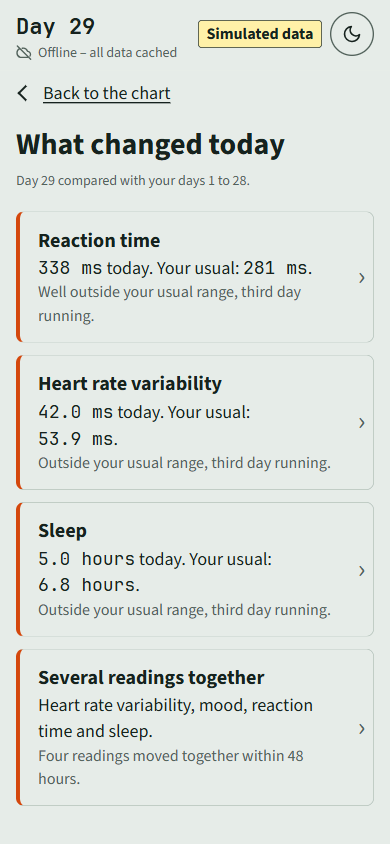
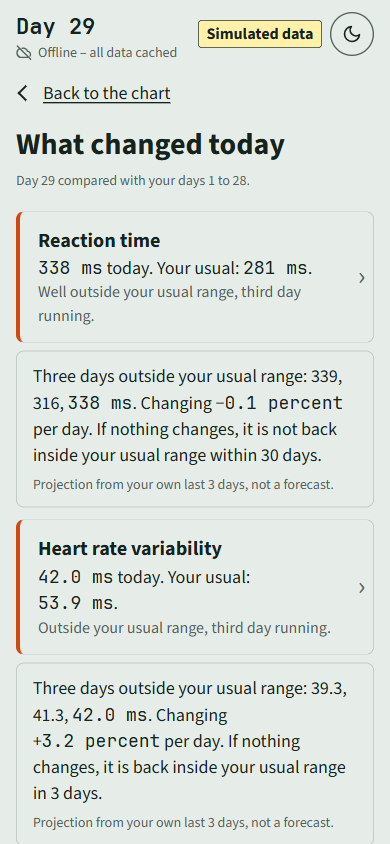
Trend projection card from the last 3 days; mood axis inside 1 to 5

diff --git a/web/app.js b/web/app.js
@@ -10,8 +10,8 @@ const SIGNALS = {
   sleep_hours: { name: "Sleep", phrase: "Your sleep last night", unit: "hours", dp: 1, step: 1, low: "shorter", high: "longer" },
   reaction_ms: { name: "Reaction time", phrase: "Your reaction time today", unit: "ms", dp: 0, step: 50, low: "faster", high: "slower" },
   // step for the four below: the smallest of 0.25, 0.5, 1, 2, 2.5, 5, 10 that gives three ticks on days 29 and 30
-  // of web/data/crew_a_anomaly.json (values plus usual range): 2 to 6, 50 to 70, 96 to 100, 36.5 to 37.0
-  mood_1to5: { name: "Mood", phrase: "Your mood today", unit: "of 5", diffUnit: "points", dp: 1, step: 2, low: "lower", high: "higher" },
+  // of web/data/crew_a_anomaly.json (values plus usual range): 2 to 6 (mood then capped at 5), 50 to 70, 96 to 100, 36.5 to 37.0
+  mood_1to5: { name: "Mood", phrase: "Your mood today", unit: "of 5", diffUnit: "points", dp: 1, step: 2, min: 1, max: 5, low: "lower", high: "higher" }, // axis kept on the 1-to-5 scale
   heart_rate_bpm: { name: "Heart rate", phrase: "Your heart rate today", unit: "beats a minute", dp: 0, step: 10, low: "lower", high: "higher" },
   spo2_pct: { name: "Blood oxygen", phrase: "Your blood oxygen today", unit: "percent", dp: 1, step: 2, low: "lower", high: "higher" },
   core_temp_c: { name: "Core temperature", phrase: "Your core temperature today", unit: "°C", dp: 2, step: 0.25, low: "lower", high: "higher" },
@@ -317,10 +317,10 @@ function drawChannel(signal) {
   const [ink, quiet, scrub, flag] = ["--ink", "--quiet", "--scrub", "--flag"].map(css), mono = { family: css("--mono") };
   const range = (b) => `${fmt(signal, b.mean - 2 * b.sd)} to ${fmt(signal, b.mean + 2 * b.sd)}`;
   const flagged = days.filter((_, i) => marks[i]);
-  const bottom = signal === CHANNELS.at(-1), step = SIGNALS[signal].step;
+  const bottom = signal === CHANNELS.at(-1), { step, min = 0, max = Infinity } = SIGNALS[signal];
   const span = [...full.vals, ...full.band.filter(Boolean).flatMap((b) => [b.mean - 2 * b.sd, b.mean + 2 * b.sd])];
-  const yMin = Math.max(0, Math.floor(Math.min(...span) / step) * step); // three ticks, all whole steps; none below zero
-  const yMax = yMin + Math.ceil((Math.max(...span) - yMin) / (2 * step)) * 2 * step;
+  const yMin = Math.max(min, Math.floor(Math.min(...span) / step) * step); // three ticks, all whole steps; none below zero
+  const yMax = Math.min(max, yMin + Math.ceil((Math.max(...span) - yMin) / (2 * step)) * 2 * step); // nor past the scale
 
   put(box.querySelector(".val"), fmt(signal, vals[last]));
   canvas.setAttribute("aria-label", checked(
@@ -492,6 +492,14 @@ function renderFlags() {
     const li = document.createElement("li");
     li.append(b);
     list.append(li);
+    // Trend card (design P2b) under a flag that has been outside the usual range 3 days running (web/projection.js).
+    const p = r.signal && Projection.projection(state.rows, r.signal, state.flags);
+    if (p) {
+      const [text, meta] = Projection.lines(p, SIGNALS[r.signal]), card = document.createElement("li");
+      card.className = "trend-card";
+      card.append(monoNums(make("p", text)), make("p", meta, "meta"));
+      list.append(card);
+    }
   }
   $("flag-note").hidden = row.near_vision_ok !== false;
   put($("flag-note"), "You reported blurred near vision. No rule scores this yet; it goes into the summary for the flight surgeon.");

diff --git a/web/projection.js b/web/projection.js
@@ -1,0 +1,51 @@
+"use strict";
+// Port of src/baseline/compute/trend.py for the offline page, plus the card's words.
+// Python is the reference; tests/test_trend.py checks this file gives the same numbers and cards.
+(function (root) {
+  const Rules = root.Rules || require("./rules.js");
+  const DAYS = 3, THRESHOLD = 2, WITHIN = 30;
+
+  // Least-squares slope per day; for 3 equally spaced days it equals (last − first) / 2.
+  function slope(days, values) {
+    const n = days.length, mx = days.reduce((a, x) => a + x, 0) / n, my = values.reduce((a, y) => a + y, 0) / n;
+    let num = 0, den = 0;
+    days.forEach((x, i) => { num += (x - mx) * (values[i] - my); den += (x - mx) ** 2; });
+    return num / den;
+  }
+
+  // The card for `signal` on the last day of rows, or null: only when the signal was outside its usual
+  // range (watch or confirmed) on each of the last 3 consecutive days. Edge = today's band from the rule.
+  function projection(rows, signal, flags = Rules.evaluate(rows)) {
+    if (rows.length < DAYS) return null;
+    const last = rows.slice(-DAYS), days = last.map((r) => r.day);
+    if (days.some((d, i) => d !== days[0] + i)) return null;
+    const hits = days.map((d) => (flags[d] || []).find((f) => f.signal === signal));
+    if (!hits.every(Boolean)) return null;
+    const values = last.map((r) => r[signal]), today = hits.at(-1);
+    const high = Rules.DIRECTIONS[signal] === "high";
+    const edge = today.baseline_mean + (high ? THRESHOLD : -THRESHOLD) * today.baseline_sd;
+    const s = slope(days, values), toward = high ? s < 0 : s > 0;
+    const back = toward ? Math.floor(Math.abs(values.at(-1) - edge) / Math.abs(s)) + 1 : null;
+    return { signal, days, values, slope: s, percent_per_day: (s / values.at(-1)) * 100, direction: Rules.DIRECTIONS[signal], edge, toward, days_back: back };
+  }
+
+  // The card's words. spec = { unit, dp } of the signal. No "flat", "rising" or "falling": no cut for them exists.
+  function lines(p, spec) {
+    const n = (v) => v.toFixed(spec.dp), pct = Math.round(p.percent_per_day * 10) / 10;
+    const rate = `${pct < 0 ? "−" : pct > 0 ? "+" : ""}${Math.abs(pct).toFixed(1)}`;
+    const high = p.direction === "high";
+    const outlook = !p.toward
+      ? `If nothing changes, it stays ${high ? "above your usual top" : "below your usual bottom"} of ${n(p.edge)} ${spec.unit}.`
+      : p.days_back > WITHIN
+        ? `If nothing changes, it is not back inside your usual range within ${WITHIN} days.`
+        : `If nothing changes, it is back inside your usual range in ${p.days_back} ${p.days_back === 1 ? "day" : "days"}.`;
+    return [
+      `Three days outside your usual range: ${p.values.map(n).join(", ")} ${spec.unit}. Changing ${rate} percent per day. ${outlook}`,
+      "Projection from your own last 3 days, not a forecast.",
+    ];
+  }
+
+  const api = { DAYS, slope, projection, lines };
+  if (typeof module === "object" && module.exports) module.exports = api;
+  else root.Projection = api;
+})(this);

diff --git a/web/index.html b/web/index.html
@@ -187,6 +187,11 @@ fieldset { border: 0; padding: 0; margin: 28px 0 0; min-width: 0; }
 .radiation h2 { margin-top: 0; color: var(--real-head); font-size: 22px; }
 .radiation p:last-child { margin-bottom: 0; }
 .spe-row > span { display: block; }
+/* Trend card under its flag (design P2b): framed, no left stripe, so it reads as part of the flag above. */
+.trend-card { padding: 12px 16px; border: 1px solid var(--card-border); border-radius: 8px; background: var(--card); }
+.flag-list .trend-card { margin-top: 8px; }
+.trend-card p { margin: 0; font-variant-numeric: tabular-nums; }
+.trend-card .meta { margin-top: 6px; }
 
 .readout {
   display: grid; grid-template-columns: minmax(7em, 38%) 1fr; gap: 8px 16px; margin: 8px 0 0;
@@ -433,8 +438,9 @@ fieldset { border: 0; padding: 0; margin: 28px 0 0; min-width: 0; }
 <script src="vendor/chart.umd.js?v=943f58faf8"></script>
 <script src="rules.js?v=9280e87989"></script>
 <script src="trend.js?v=076b8d7565"></script>
+<script src="projection.js?v=1eb08e8dd9"></script>
 <script src="reaction.js?v=0c373ca889"></script>
 <script src="store.js?v=986788a7d2"></script>
-<script src="app.js?v=bf9af0dc9f"></script>
+<script src="app.js?v=8f6ce9f86e"></script>
 </body>
 </html>

diff --git a/tests/test_trend.py b/tests/test_trend.py
@@ -1,0 +1,127 @@
+"""Trend projection card: Python reference (src/baseline/compute/trend.py) and its web port agree,
+the 23 Oct design numbers are reproduced, and every card line passes the wording check."""
+
+import json
+import shutil
+import subprocess
+from pathlib import Path
+
+import pytest
+
+from baseline.compute.rules import DIRECTIONS
+from baseline.compute.trend import projection, projections, slope
+from baseline.compute.wording import blocks_diagnostic
+from baseline.validation import SIGNALS, make_clean, make_planted
+
+NODE = shutil.which("node")
+FIXTURE = json.loads(Path("web/data/crew_a_anomaly.json").read_text())["rows"]
+SPEC = {  # unit and decimals as on the page (web/app.js SIGNALS)
+    "hrv_rmssd_ms": ("ms", 1), "sleep_hours": ("hours", 1), "reaction_ms": ("ms", 0), "mood_1to5": ("of 5", 1),
+    "heart_rate_bpm": ("beats a minute", 0), "spo2_pct": ("percent", 1), "core_temp_c": ("°C", 2),
+}
+
+
+def demo(day: int) -> list[dict]:
+    """The demo run: recorded day-29 reaction (the fixture value), sleep 5, mood 4; day 30 from the record."""
+    rows = [dict(r) for r in FIXTURE if r["day"] <= day]
+    rows[28].update(sleep_hours=5, mood_1to5=4)
+    return rows
+
+
+def cases() -> list[list[dict]]:
+    """The demo and fixture days 29 and 30, and every day 17..30 of planted fixtures for seeds 1-30."""
+    out = [demo(29), demo(30), [r for r in FIXTURE if r["day"] <= 29], FIXTURE]
+    for seed in range(1, 31):
+        rows = make_planted(seed, SIGNALS[seed % len(SIGNALS)], 3.0, 15 + seed % 12, length=4)
+        out += [rows[:end] for end in range(17, 31)]
+    return out
+
+
+def test_reaction_day_29_reproduces_the_design_numbers():
+    """docs/DESIGN_BRIEF.md B1 (23 Oct): 339.11, 316.28, 338.34 ms; −0.385 ms per day; −0.11 percent; top 314.10."""
+    p = projection(demo(29), "reaction_ms")
+    assert p["values"] == [339.11, 316.28, 338.34]
+    assert round(p["slope"], 3) == -0.385 == round((338.34 - 339.11) / 2, 3)
+    assert round(p["percent_per_day"], 2) == -0.11
+    assert round(p["edge"], 2) == 314.10
+    assert p["toward"] and p["days_back"] == 63  # (338.34 − 314.10) / 0.385 = 62.96, so day 63 is the first inside
+
+
+def test_demo_cards_on_day_29_and_none_on_day_30():
+    assert sorted(projections(demo(29))) == ["hrv_rmssd_ms", "reaction_ms", "sleep_hours"]
+    assert projections(demo(30)) == {}
+
+
+def test_no_card_unless_outside_on_all_3_days():
+    rows = demo(29)
+    assert projection(rows, "heart_rate_bpm") is None  # outside on day 23 only
+    assert projection(rows, "mood_1to5") is None  # days 27 and 28, not 29 (mood 4 today)
+    assert projection(rows[:-1] + [{**rows[-1], "day": 30}], "reaction_ms") is None  # a gap breaks the 3 days
+    assert projection(rows[:2], "reaction_ms") is None
+
+
+def with_last3(signal: str, values: list[float]) -> list[dict]:
+    rows = make_clean(7)
+    for r, v in zip(rows[-3:], values):
+        r[signal] = v
+    return rows
+
+
+@pytest.mark.parametrize("signal, values, toward", [
+    ("reaction_ms", [420.0, 410.0, 400.0], True),   # high signal moving down: toward
+    ("reaction_ms", [400.0, 410.0, 420.0], False),  # moving up: away
+    ("reaction_ms", [410.0, 410.0, 410.0], False),  # level
+    ("sleep_hours", [2.0, 2.5, 3.0], True),         # low signal moving up: toward
+    ("sleep_hours", [3.0, 2.5, 2.0], False),
+])
+def test_toward_away_and_level(signal, values, toward):
+    p = projection(with_last3(signal, values), signal)
+    assert p is not None and p["toward"] is toward
+    assert p["slope"] == pytest.approx((values[2] - values[0]) / 2) == pytest.approx(slope([28, 29, 30], values))
+    if toward:
+        n = p["days_back"]
+        inside = lambda v: v < p["edge"] if DIRECTIONS[signal] == "high" else v > p["edge"]
+        assert inside(values[2] + n * p["slope"]) and not inside(values[2] + (n - 1) * p["slope"])
+    else:
+        assert p["days_back"] is None
+
+
+JS = """
+const R = require('./web/rules.js'), P = require('./web/projection.js');
+const { cases, spec } = JSON.parse(require('fs').readFileSync(0, 'utf8'));
+console.log(JSON.stringify(cases.map((rows) => {
+  const flags = R.evaluate(rows), out = {};
+  for (const s of Object.keys(R.DIRECTIONS)) {
+    const p = P.projection(rows, s, flags);
+    if (p) out[s] = { ...p, lines: P.lines(p, { unit: spec[s][0], dp: spec[s][1] }) };
+  }
+  return out;
+})));
+"""
+
+
+def round_card(p: dict) -> dict:
+    return {k: round(p[k], 9) for k in ("slope", "percent_per_day", "edge")} | {k: p[k] for k in ("days", "values", "toward", "days_back")}
+
+
+@pytest.mark.skipif(NODE is None, reason="node is not installed")
+def test_js_projection_matches_python_and_every_line_passes_the_wording_check():
+    all_cases = cases()
+    run = subprocess.run([NODE, "-e", JS], input=json.dumps({"cases": all_cases, "spec": SPEC}), capture_output=True, text=True, encoding="utf-8", check=True)
+    js = json.loads(run.stdout)
+    branches = set()
+    for rows, got in zip(all_cases, js):
+        want = projections(rows)
+        assert sorted(got) == sorted(want)
+        for s, p in want.items():
+            assert round_card(got[s]) == round_card(p), s
+            assert all(not blocks_diagnostic(line) for line in got[s]["lines"]), got[s]["lines"]
+            assert not any(w in line.lower() for line in got[s]["lines"] for w in ("flat", "rising", "falling"))
+        branches |= {("toward" if p["toward"] else "away", (p["days_back"] or 0) > 30) for p in want.values()}
+    assert branches == {("toward", False), ("toward", True), ("away", False)}, "the cases must reach every outlook line"
+    day29 = js[0]["reaction_ms"]["lines"]
+    assert day29 == [
+        "Three days outside your usual range: 339, 316, 338 ms. Changing −0.1 percent per day. "
+        "If nothing changes, it is not back inside your usual range within 30 days.",
+        "Projection from your own last 3 days, not a forecast.",
+    ]

diff --git a/src/baseline/compute/trend.py b/src/baseline/compute/trend.py
@@ -1,0 +1,61 @@
+"""Trend projection from the person's own last 3 days. Deterministic; no model, no fitting beyond a
+least-squares line through three points. A projection, not a forecast: the card says so."""
+
+import math
+
+from baseline.compute.rules import DIRECTIONS, evaluate
+
+DAYS = 3
+THRESHOLD = 2.0  # the usual range is mean ± 2 SD, the same cut rule_zscore uses
+
+
+def slope(days: list[int], values: list[float]) -> float:
+    """Least-squares slope per day. For 3 equally spaced days it equals (last − first) / 2."""
+    n = len(days)
+    mx, my = sum(days) / n, sum(values) / n
+    return sum((x - mx) * (y - my) for x, y in zip(days, values)) / sum((x - mx) ** 2 for x in days)
+
+
+def projection(rows: list[dict], signal: str, flags: dict[int, list[dict]] | None = None) -> dict | None:
+    """The card for `signal` on the last day of `rows`, or None.
+
+    A card exists only when the signal was outside its usual range (watch or confirmed) on each of the
+    last 3 days, and those are 3 consecutive days. The usual-range edge is today's band from the same
+    history the rule uses (the flag's baseline_mean and baseline_sd)."""
+    if len(rows) < DAYS:
+        return None
+    flags = evaluate(rows) if flags is None else flags
+    last = rows[-DAYS:]
+    days = [r["day"] for r in last]
+    if days != list(range(days[0], days[0] + DAYS)):
+        return None
+    hits = [next((f for f in flags.get(d, []) if f.get("signal") == signal), None) for d in days]
+    if not all(hits):
+        return None
+    values = [r[signal] for r in last]
+    today = hits[-1]
+    high = DIRECTIONS[signal] == "high"
+    edge = today["baseline_mean"] + (THRESHOLD if high else -THRESHOLD) * today["baseline_sd"]
+    s = slope(days, values)
+    toward = s < 0 if high else s > 0
+    # Days until a straight line from today's value crosses back inside the edge (strictly inside, as the rule
+    # fires at exactly 2 SD). None when it moves away or stays level.
+    back = math.floor(abs(values[-1] - edge) / abs(s)) + 1 if toward else None
+    return {
+        "signal": signal,
+        "days": days,
+        "values": values,
+        "slope": s,
+        "percent_per_day": s / values[-1] * 100,
+        "direction": DIRECTIONS[signal],
+        "edge": edge,
+        "toward": toward,
+        "days_back": back,
+    }
+
+
+def projections(rows: list[dict]) -> dict[str, dict]:
+    """Every card for the last day of `rows`, keyed by signal."""
+    flags = evaluate(rows)
+    out = {s: projection(rows, s, flags) for s in DIRECTIONS}
+    return {s: p for s, p in out.items() if p}

diff --git a/tests/test_web.py b/tests/test_web.py
@@ -70,7 +70,7 @@ def test_scripts_styles_and_fonts_carry_a_version_that_matches_their_content():
     endings are normalised so a Windows checkout gives the same hash."""
     html = Path("web/index.html").read_text(encoding="utf-8")
     scripts = re.findall(r'<script src="([^"?]+)\?v=([0-9a-f]+)"></script>', html)
-    assert [path for path, _ in scripts] == ["errors.js", "theme.js", "vendor/chart.umd.js", "rules.js", "trend.js", "reaction.js", "store.js", "app.js"], \
+    assert [path for path, _ in scripts] == ["errors.js", "theme.js", "vendor/chart.umd.js", "rules.js", "trend.js", "projection.js", "reaction.js", "store.js", "app.js"], \
         "errors.js loads first, so it can show errors from the scripts after it; theme.js before the body paints"
     assert html.count("<script") == len(scripts), "every script tag needs ?v="
     links = re.findall(r'<link rel="(?:preload|stylesheet)" href="([^"]+)"', html)

diff --git a/README.md b/README.md
@@ -67,7 +67,7 @@ pytest -q
 python -m baseline.serve
 ```
 
-`pytest -q` should print **64 passed**. The last line opens the demo in your browser at http://localhost:8000 (or 8001–8010 if busy). Ctrl+C stops it.
+`pytest -q` should print **73 passed**. The last line opens the demo in your browser at http://localhost:8000 (or 8001–8010 if busy). Ctrl+C stops it.
 
 **On a phone:** `python -m baseline.serve --lan`, then open the second address it prints on a phone on the same wifi. Windows may ask to let Python through the firewall; allow it for private networks.
 
@@ -96,7 +96,7 @@ For a repeatable demo, use the **"Use recorded day-29 self-check"** button in st
 |---|---|---|
 | 1 | **Self-check** | A guide card, then a 5-round reaction test, sleep hours, sleep quality, mood, and a near-vision line. About 2 minutes. |
 | 2 | **Console** | "Health status": one chart per signal, seven in all (heart rate, heart rate variability (HRV), blood oxygen, core temperature, sleep, mood and reaction time); a 7 days · 30 days switch (30 by default, same usual range in both). Grey band = your usual range. Orange dot = flagged. Orange ring = being watched. |
-| 3 | **What changed** | Each flag in two lines: today's value against your usual, then a plain status such as "Well outside your usual range, third day running." |
+| 3 | **What changed** | Each flag in two lines: today's value against your usual, then a plain status such as "Well outside your usual range, third day running." A signal outside its usual range three days running also gets a trend card under its flag: the three values, the change per day from a least-squares line through them, and whether a straight line from today gets back inside the usual range within 30 days, labelled "Projection from your own last 3 days, not a forecast." |
 | 4 | **Evidence card** | The change in plain words, the numbers, why it matters (study finding in bold, source linked), and one step to consider. |
 | 5 | **Queue for flight surgeon** | The summary, and "Earliest reply in 44 minutes (22 minutes each way at Mars distance)." Display only. Nothing is sent. |
 | 6 | **Next day** | Day 30: each of yesterday's flags compared with today. "Start the demo again" returns to step 1. |
@@ -198,13 +198,13 @@ The seven OSDR searches cached on 30 Sep returned 57 hits, 50 distinct studies. 
 ## Repository layout
 
 ```
-src/baseline/compute/   rules, baselines, radiation, wording check  (the reference logic)
+src/baseline/compute/   rules, baselines, radiation, trend projection, wording check  (the reference logic)
 src/baseline/serve.py   local web server, --lan for phones
-web/                    the page: index.html, app.js, rules.js, trend.js, screenshots, fonts, Chart.js
+web/                    the page: index.html, app.js, rules.js, trend.js, projection.js, screenshots, fonts, Chart.js
 data/fixtures/          simulated 30-day records (clean, anomaly)
 cache/                  NTRS, OSDR and NOAA responses with source URL and fetch time
 docs/                   evidence map, evidence notes, design notes
-tests/                  64 tests
+tests/                  73 tests
 ```
 
 ---
